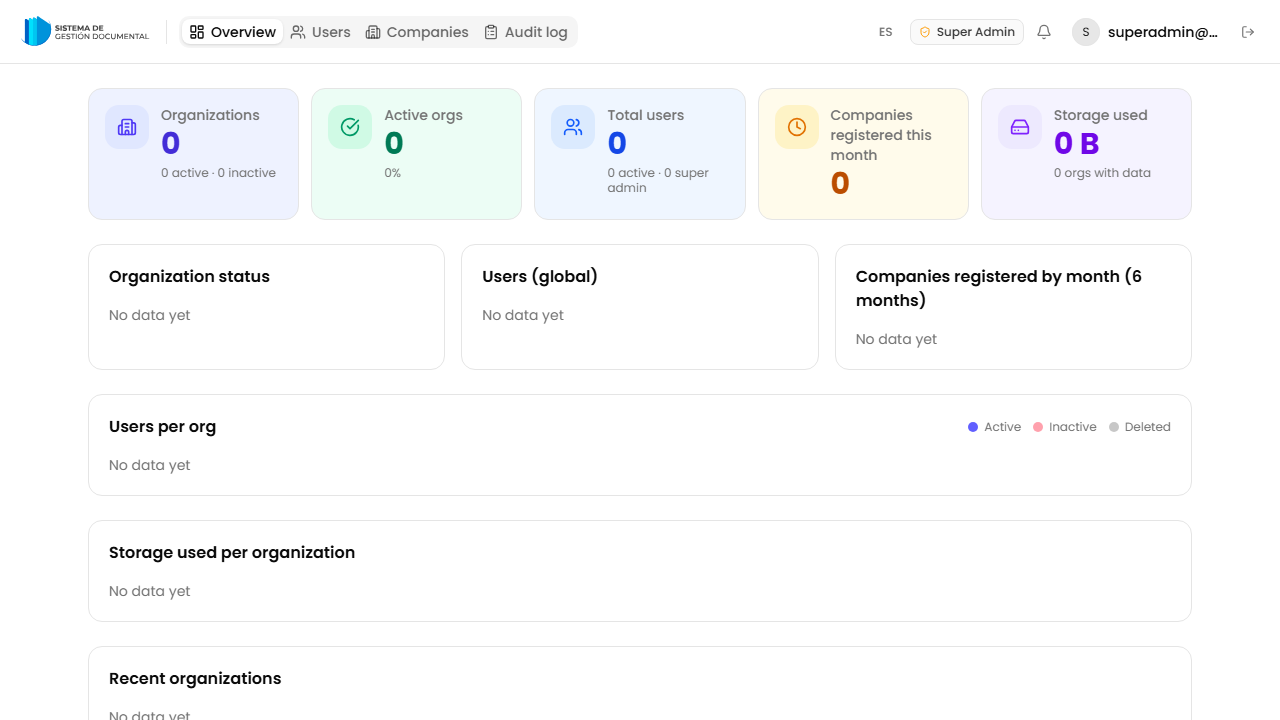
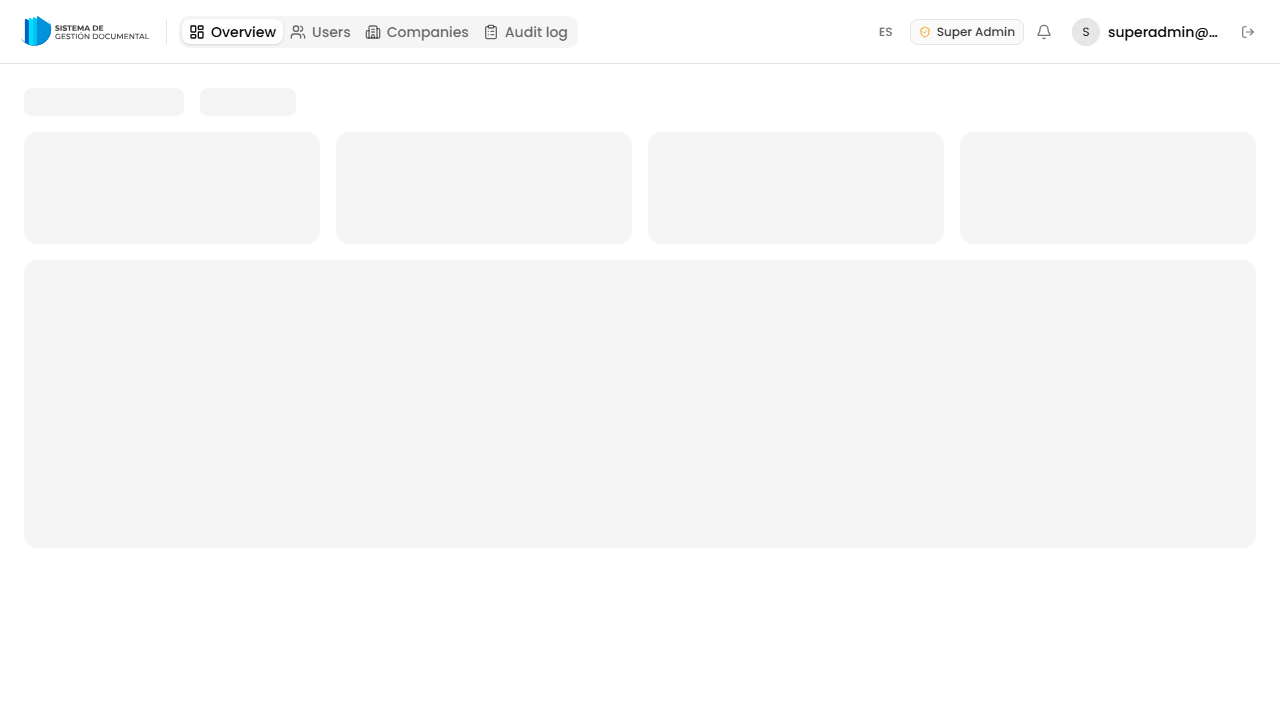
:wrench: MGESTDOC-59: ajuste filtros flujo de trabajo

diff --git a/tests/e2e/workflows/create-approve.spec.ts b/tests/e2e/workflows/create-approve.spec.ts
@@ -205,7 +205,7 @@ test.describe('Workflow creation', () => {
     await expect(page.getByRole('dialog')).toBeVisible();
     // Dialog header matches the creation form
     await expect(page.getByRole('heading', { name: 'New workflow' })).toBeVisible();
-    await expect(page.getByLabel('Title')).toBeVisible();
+    await expect(page.getByRole('dialog').getByLabel('Title')).toBeVisible();
   });
 
   test('Create workflow button is visible while required fields are missing', async ({ page }) => {
@@ -214,7 +214,7 @@ test.describe('Workflow creation', () => {
     await page.getByRole('button', { name: 'New workflow' }).click();
 
     // Only the title is filled — typology + approver still missing
-    await page.getByLabel('Title').fill('My Workflow');
+    await page.getByRole('dialog').getByLabel('Title').fill('My Workflow');
 
     const submitBtn = page.getByRole('button', { name: 'Create workflow' });
     // Button is enabled (no built-in disable for missing typology — validation fires on submit)
@@ -226,7 +226,7 @@ test.describe('Workflow creation', () => {
     await page.goto('/dashboard');
     await page.getByRole('tab', { name: 'Workflows' }).click();
     await page.getByRole('button', { name: 'New workflow' }).click();
-    await page.getByLabel('Title').fill('Will be cancelled');
+    await page.getByRole('dialog').getByLabel('Title').fill('Will be cancelled');
 
     await page.getByRole('button', { name: 'Cancel' }).click();
 
@@ -256,7 +256,7 @@ test.describe('Workflow creation', () => {
     await page.getByRole('button', { name: 'New workflow' }).click();
 
     // Fill title
-    await page.getByLabel('Title').fill('Security Policy Approval');
+    await page.getByRole('dialog').getByLabel('Title').fill('Security Policy Approval');
 
     // Select typology — click trigger, type to filter, pick option
     await page.getByRole('button', { name: /Select a typology/i }).click();
